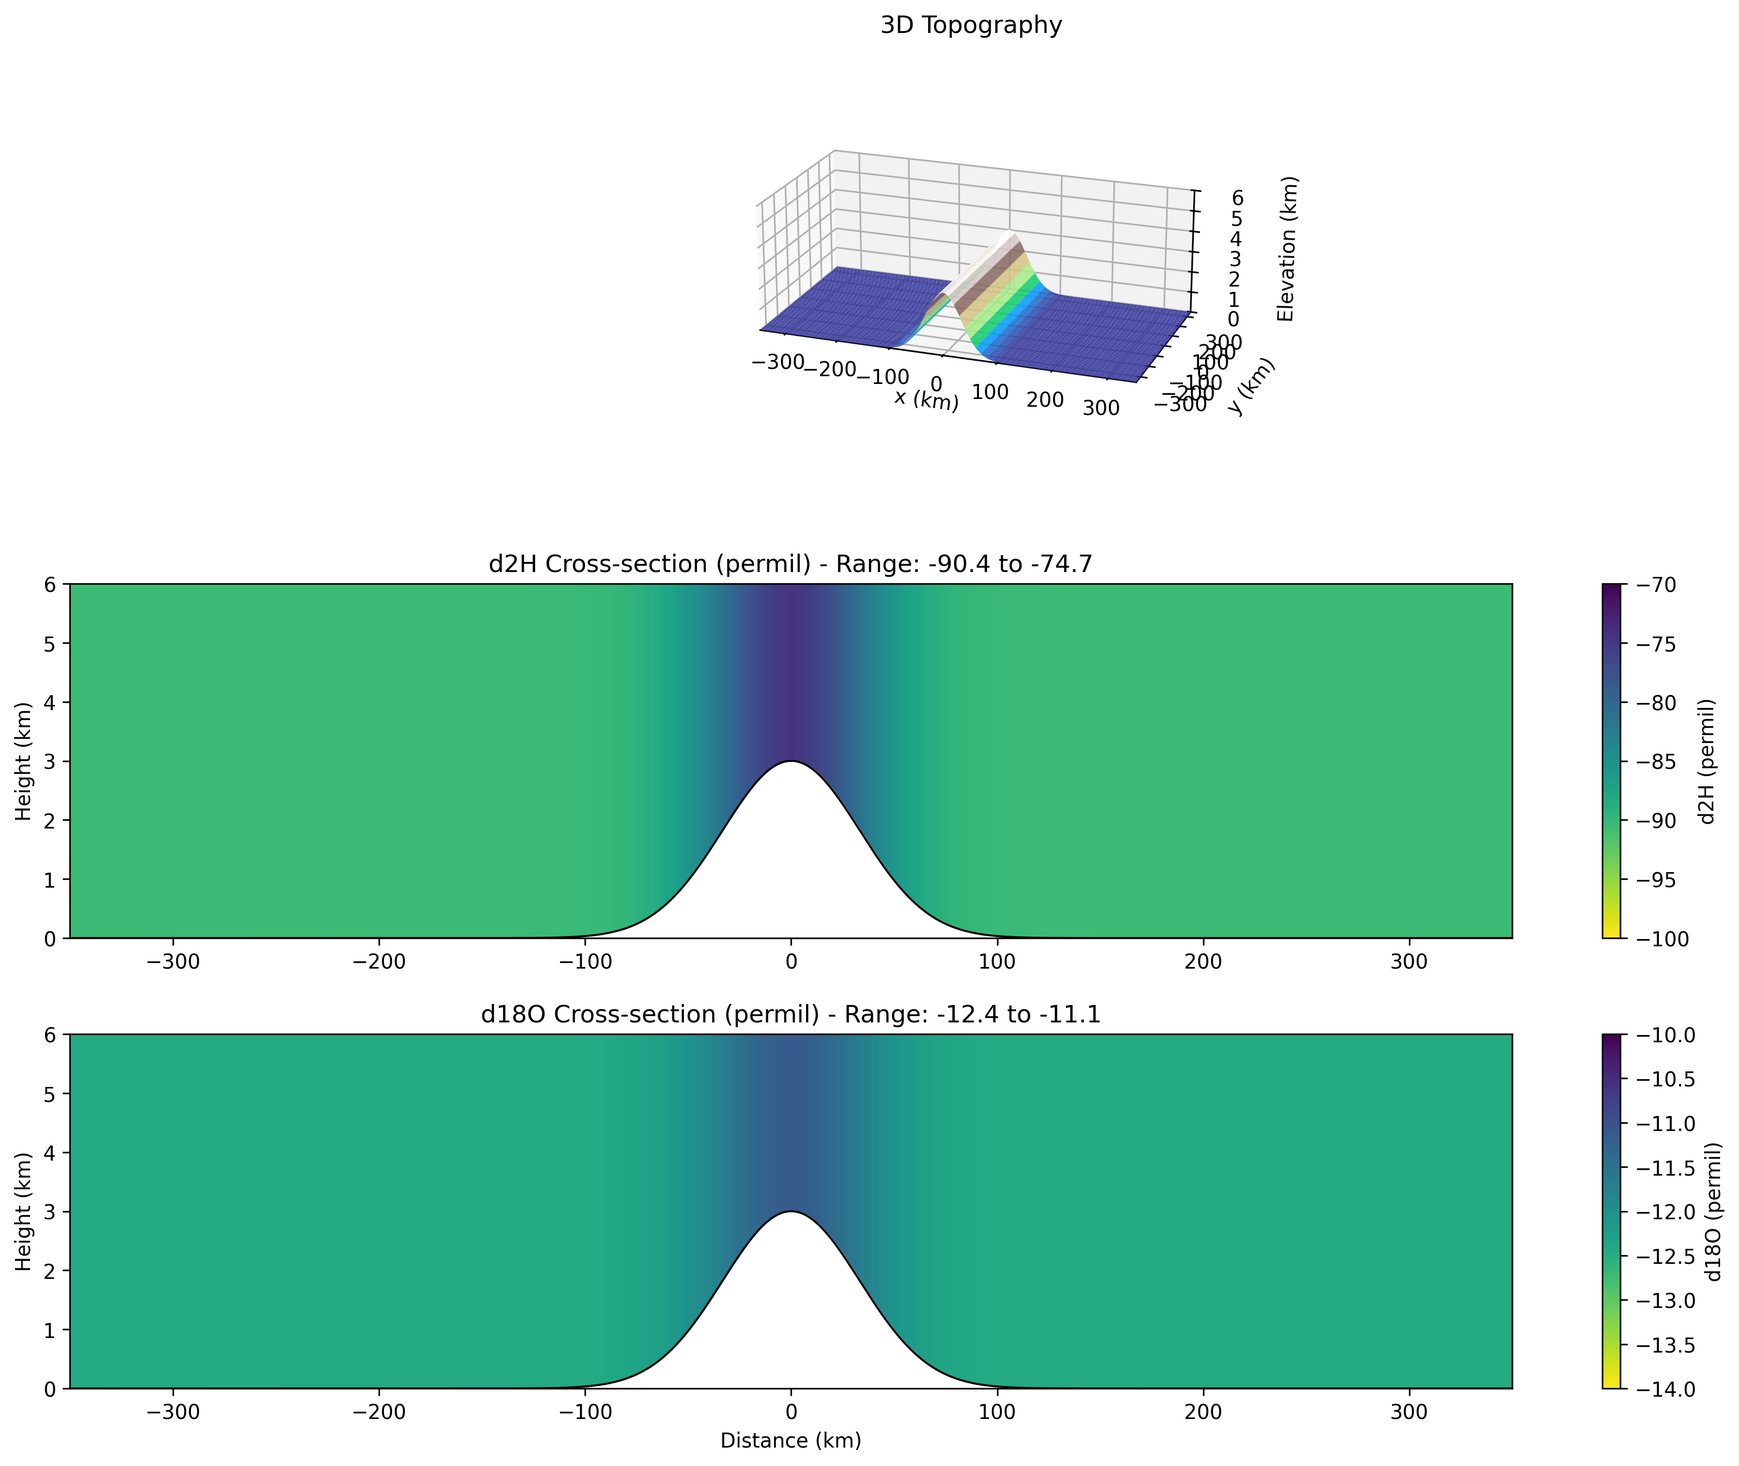
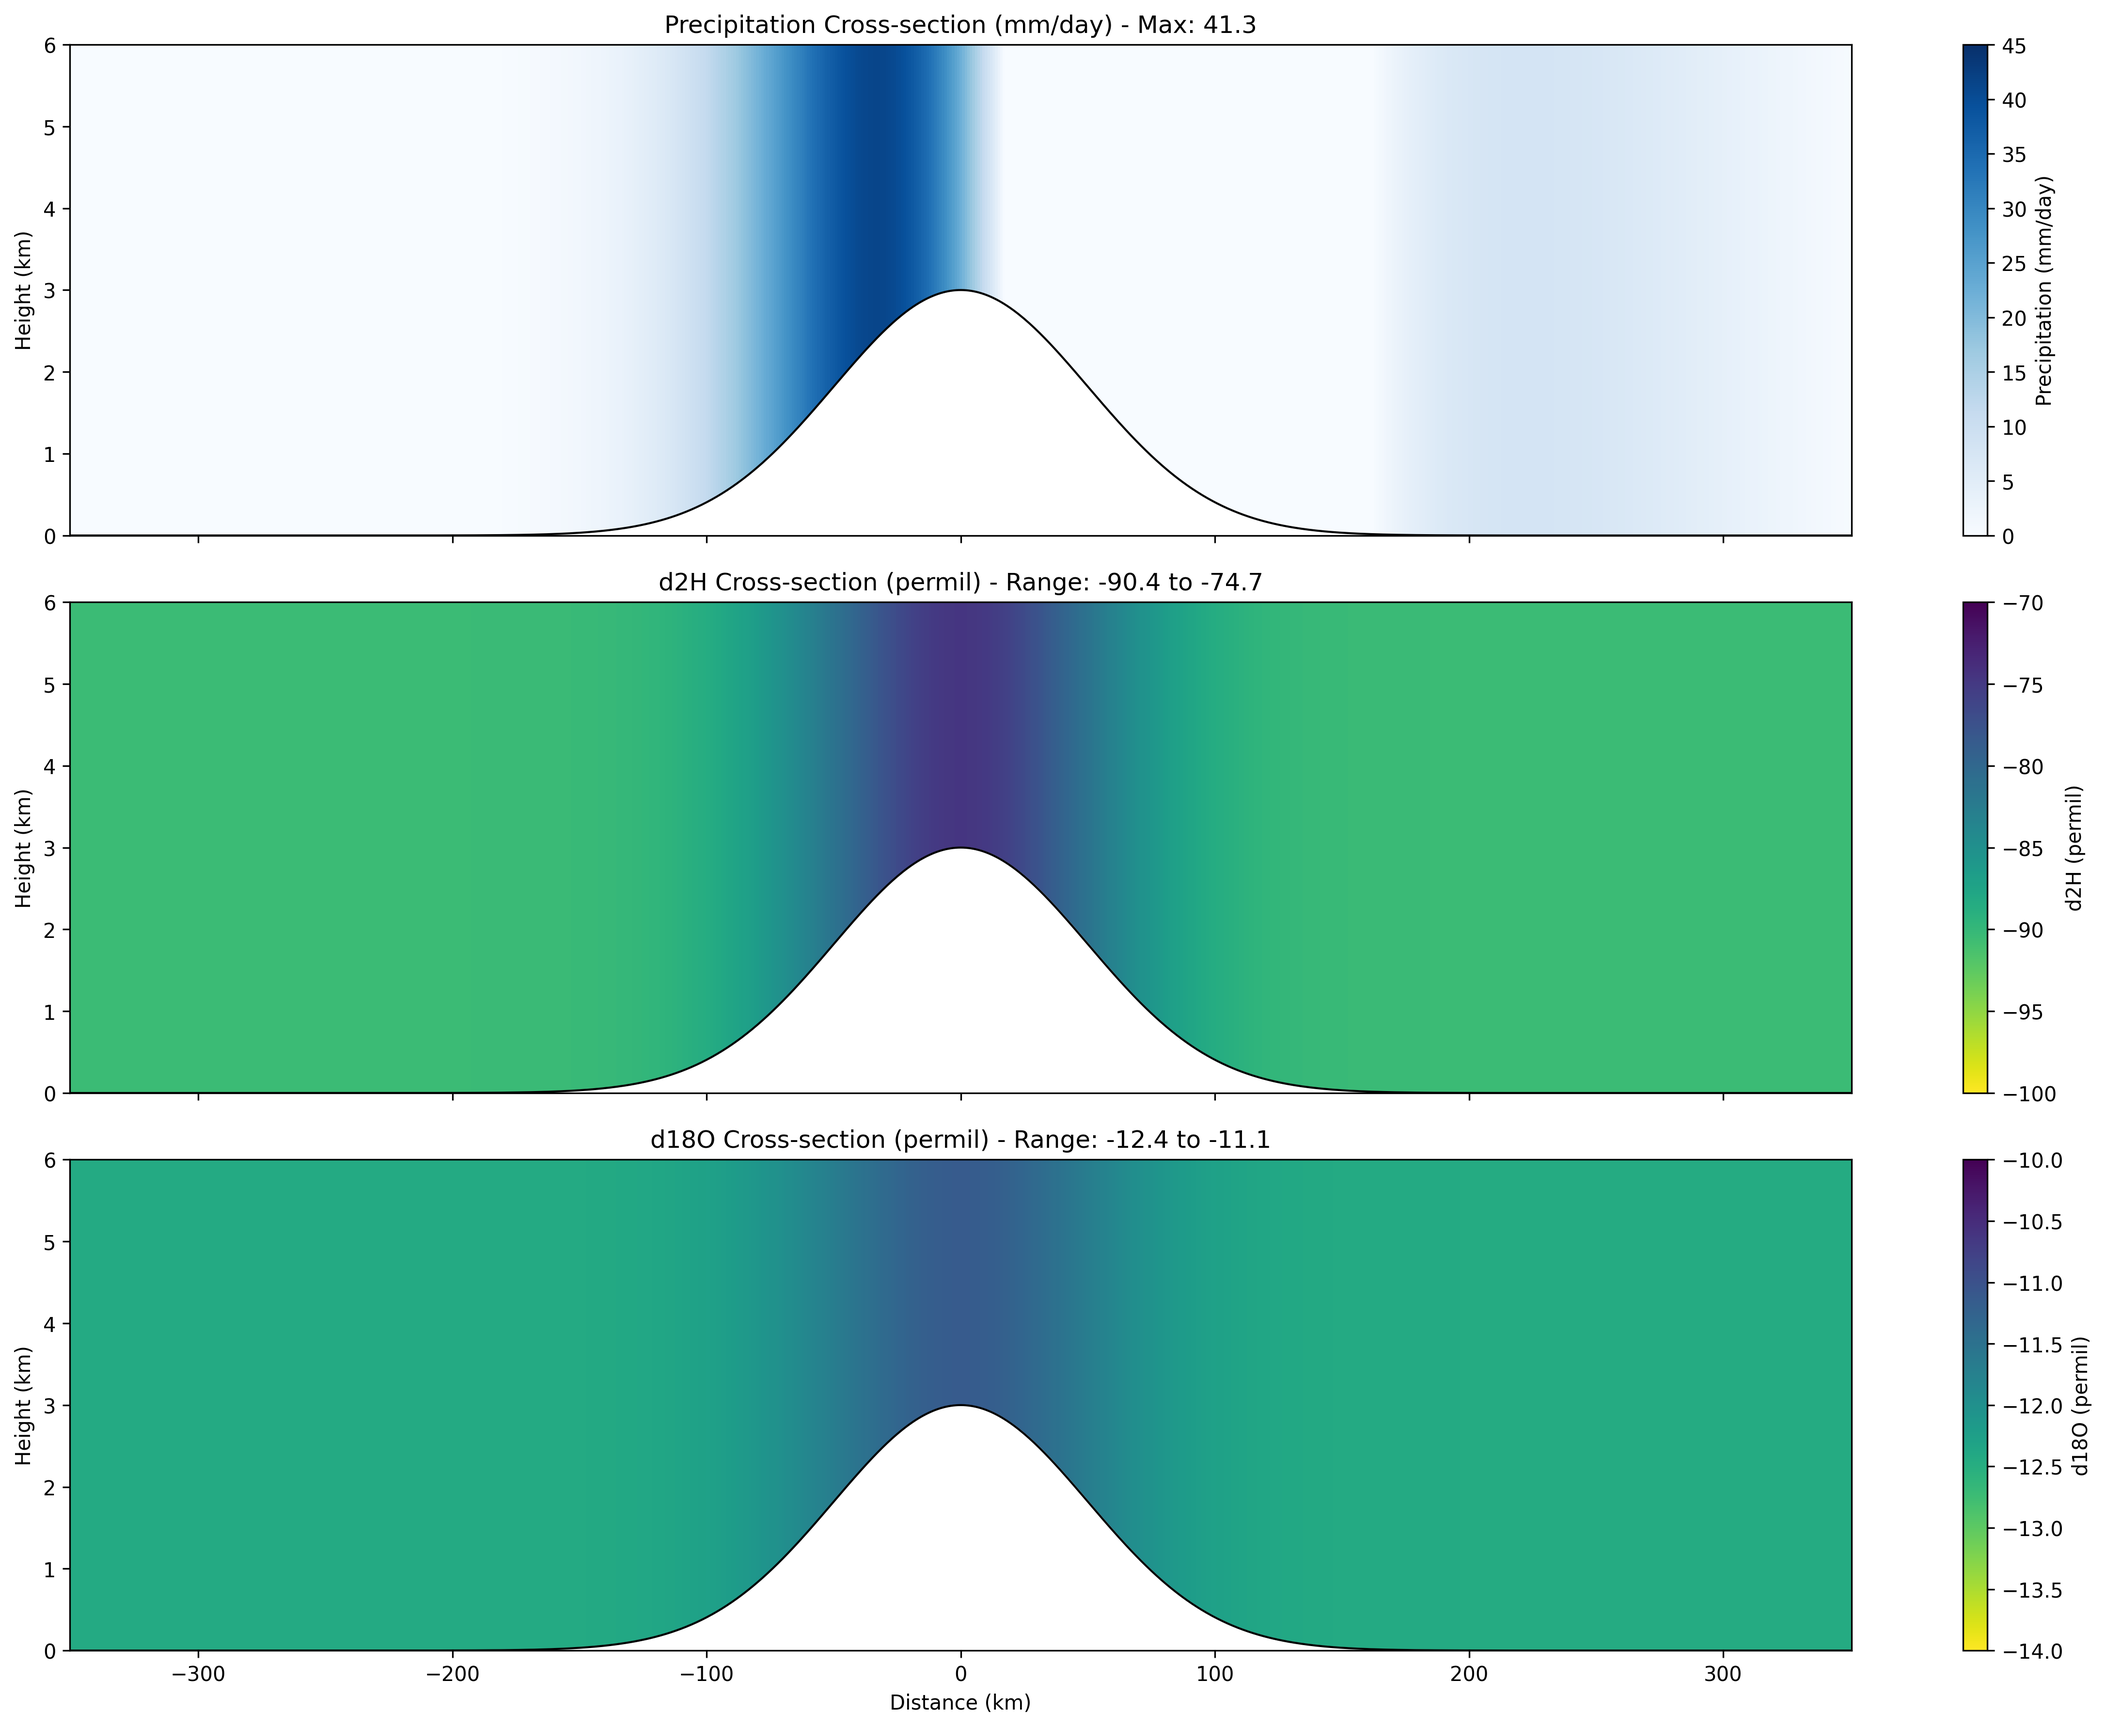
Fix the plot module.

diff --git a/opi/viz/advanced.py b/opi/viz/advanced.py
@@ -167,10 +167,10 @@ def plot_prediction(x_data, y_observed, y_predicted, x_label='X',
     return fig, axes
 
 
-def plot_cross_section(x, y, h_grid, d2h_grid=None, d18o_grid=None, 
+def plot_cross_section(x, y, h_grid, precip_grid=None, d2h_grid=None, d18o_grid=None, 
                       section_y=None, figsize=(16, 12), save_path=None):
     """
-    Plot cross-section through topography showing d2H and d18O isotopes.
+    Plot cross-section through topography showing precipitation, d2H and d18O.
     
     Parameters
     ----------
@@ -178,6 +178,8 @@ def plot_cross_section(x, y, h_grid, d2h_grid=None, d18o_grid=None,
         Grid vectors (m)
     h_grid : ndarray
         Topography grid (m)
+    precip_grid : ndarray, optional
+        Precipitation rate grid (kg/m^2/s). Will be converted to mm/day.
     d2h_grid : ndarray, optional
         d2H isotope grid (fraction, e.g., -0.0904 for -90.4 permil)
     d18o_grid : ndarray, optional
@@ -193,8 +195,6 @@ def plot_cross_section(x, y, h_grid, d2h_grid=None, d18o_grid=None,
     -------
     fig, axes : matplotlib objects
     """
-    from mpl_toolkits.mplot3d import Axes3D
-    
     if section_y is None:
         section_y = 0
     
@@ -204,37 +204,32 @@ def plot_cross_section(x, y, h_grid, d2h_grid=None, d18o_grid=None,
     # Extract cross-section
     h_section = h_grid[y_idx, :]
     
-    # Create figure with gridspec for better layout control
-    fig = plt.figure(figsize=figsize)
-    gs = fig.add_gridspec(3, 1, height_ratios=[1.5, 1.2, 1.2], hspace=0.25)
+    # Create 3 subplots: Precip, d2H, d18O (all 2D cross-sections)
+    fig, axes = plt.subplots(3, 1, figsize=figsize, sharex=True)
     
-    # ========== Subplot 1: 3D Topography ==========
-    ax1 = fig.add_subplot(gs[0], projection='3d')
-    X, Y = np.meshgrid(x/1000, y/1000)
-    
-    # Use terrain colormap for topography
-    surf = ax1.plot_surface(X, Y, h_grid/1000, cmap='terrain', 
-                            alpha=0.9, rstride=10, cstride=10, 
-                            linewidth=0, antialiased=True)
-    
-    ax1.set_xlabel('x (km)', labelpad=5)
-    ax1.set_ylabel('y (km)', labelpad=5)
-    ax1.set_zlabel('Elevation (km)', labelpad=5)
-    ax1.set_title('3D Topography')
-    
-    # Set consistent x limits with other subplots - full width
-    ax1.set_xlim([np.min(x)/1000, np.max(x)/1000])
-    ax1.set_ylim([np.min(y)/1000, np.max(y)/1000])
-    ax1.set_zlim([0, 6])  # Max 6km to match other subplots
-    
-    # Adjust view angle to show long x direction (more elongated in x)
-    ax1.view_init(elev=20, azim=-70)  # Moderate elevation for better view
-    
-    # Adjust the aspect ratio of the 3D plot box
-    ax1.set_box_aspect([3, 1.5, 1])  # [x, y, z] aspect - wider in x
+    # ========== Subplot 1: Precipitation Cross-section ==========
+    ax1 = axes[0]
+    if precip_grid is not None:
+        # Convert from kg/m^2/s to mm/day (1 kg/m^2/s = 1000 mm/s = 86400000 mm/day)
+        precip_section = precip_grid[y_idx, :] * 1000 * 86400
+        # Auto-determine color range
+        vmax_precip = np.ceil(precip_section.max() / 5) * 5  # Round up to nearest 5
+        im1 = ax1.pcolormesh(x/1000, np.linspace(0, 6, 100), 
+                            np.tile(precip_section, (100, 1)), 
+                            cmap='Blues', vmin=0, vmax=max(vmax_precip, 10))
+        ax1.fill_between(x/1000, 0, h_section/1000, color='white', alpha=1.0)
+        ax1.plot(x/1000, h_section/1000, 'k-', linewidth=1)
+        ax1.set_ylabel('Height (km)')
+        ax1.set_title(f'Precipitation Cross-section (mm/day) - Max: {precip_section.max():.1f}')
+        ax1.set_ylim([0, 6])
+        plt.colorbar(im1, ax=ax1, label='Precipitation (mm/day)')
+    else:
+        ax1.text(0.5, 0.5, 'Precipitation data not available', ha='center', va='center',
+                transform=ax1.transAxes, fontsize=14)
+        ax1.set_ylabel('Height (km)')
     
     # ========== Subplot 2: d2H Cross-section ==========
-    ax2 = fig.add_subplot(gs[1])
+    ax2 = axes[1]
     if d2h_grid is not None:
         d2h_section = d2h_grid[y_idx, :] * 1000  # Convert to permil
         # Auto-determine color range based on actual data
@@ -247,8 +242,7 @@ def plot_cross_section(x, y, h_grid, d2h_grid=None, d18o_grid=None,
         ax2.plot(x/1000, h_section/1000, 'k-', linewidth=1)
         ax2.set_ylabel('Height (km)')
         ax2.set_title(f'd2H Cross-section (permil) - Range: {d2h_section.min():.1f} to {d2h_section.max():.1f}')
-        ax2.set_xlim([np.min(x)/1000, np.max(x)/1000])
-        ax2.set_ylim([0, 6])  # Changed from 0-12 to 0-6 km
+        ax2.set_ylim([0, 6])
         plt.colorbar(im2, ax=ax2, label='d2H (permil)')
     else:
         ax2.text(0.5, 0.5, 'd2H data not available', ha='center', va='center', 
@@ -256,7 +250,7 @@ def plot_cross_section(x, y, h_grid, d2h_grid=None, d18o_grid=None,
         ax2.set_ylabel('Height (km)')
     
     # ========== Subplot 3: d18O Cross-section ==========
-    ax3 = fig.add_subplot(gs[2])
+    ax3 = axes[2]
     if d18o_grid is not None:
         d18o_section = d18o_grid[y_idx, :] * 1000  # Convert to permil
         # Auto-determine color range based on actual data
@@ -270,8 +264,7 @@ def plot_cross_section(x, y, h_grid, d2h_grid=None, d18o_grid=None,
         ax3.set_xlabel('Distance (km)')
         ax3.set_ylabel('Height (km)')
         ax3.set_title(f'd18O Cross-section (permil) - Range: {d18o_section.min():.1f} to {d18o_section.max():.1f}')
-        ax3.set_xlim([np.min(x)/1000, np.max(x)/1000])
-        ax3.set_ylim([0, 6])  # Changed from 0-12 to 0-6 km
+        ax3.set_ylim([0, 6])
         plt.colorbar(im3, ax=ax3, label='d18O (permil)')
     else:
         ax3.text(0.5, 0.5, 'd18O data not available', ha='center', va='center',
@@ -279,10 +272,9 @@ def plot_cross_section(x, y, h_grid, d2h_grid=None, d18o_grid=None,
         ax3.set_xlabel('Distance (km)')
         ax3.set_ylabel('Height (km)')
     
-    # Note: tight_layout is skipped for 3D plots to avoid warnings
-    # plt.tight_layout()
+    plt.tight_layout()
     
     if save_path:
         plt.savefig(save_path, dpi=300, bbox_inches='tight')
     
-    return fig, [ax1, ax2, ax3]
+    return fig, axes

diff --git a/examples/reproduce_gaussian_example.py b/examples/reproduce_gaussian_example.py
@@ -241,6 +241,7 @@ print("   Saved: 03_isotopes.png")
 from opi.viz import plot_cross_section
 fig, axes = plot_cross_section(
     x, y, h_grid, 
+    precip_grid=p_grid,  # kg/m^2/s, will be converted to mm/day in function
     d2h_grid=d2h_grid,
     d18o_grid=d18o_grid,
     section_y=0,
